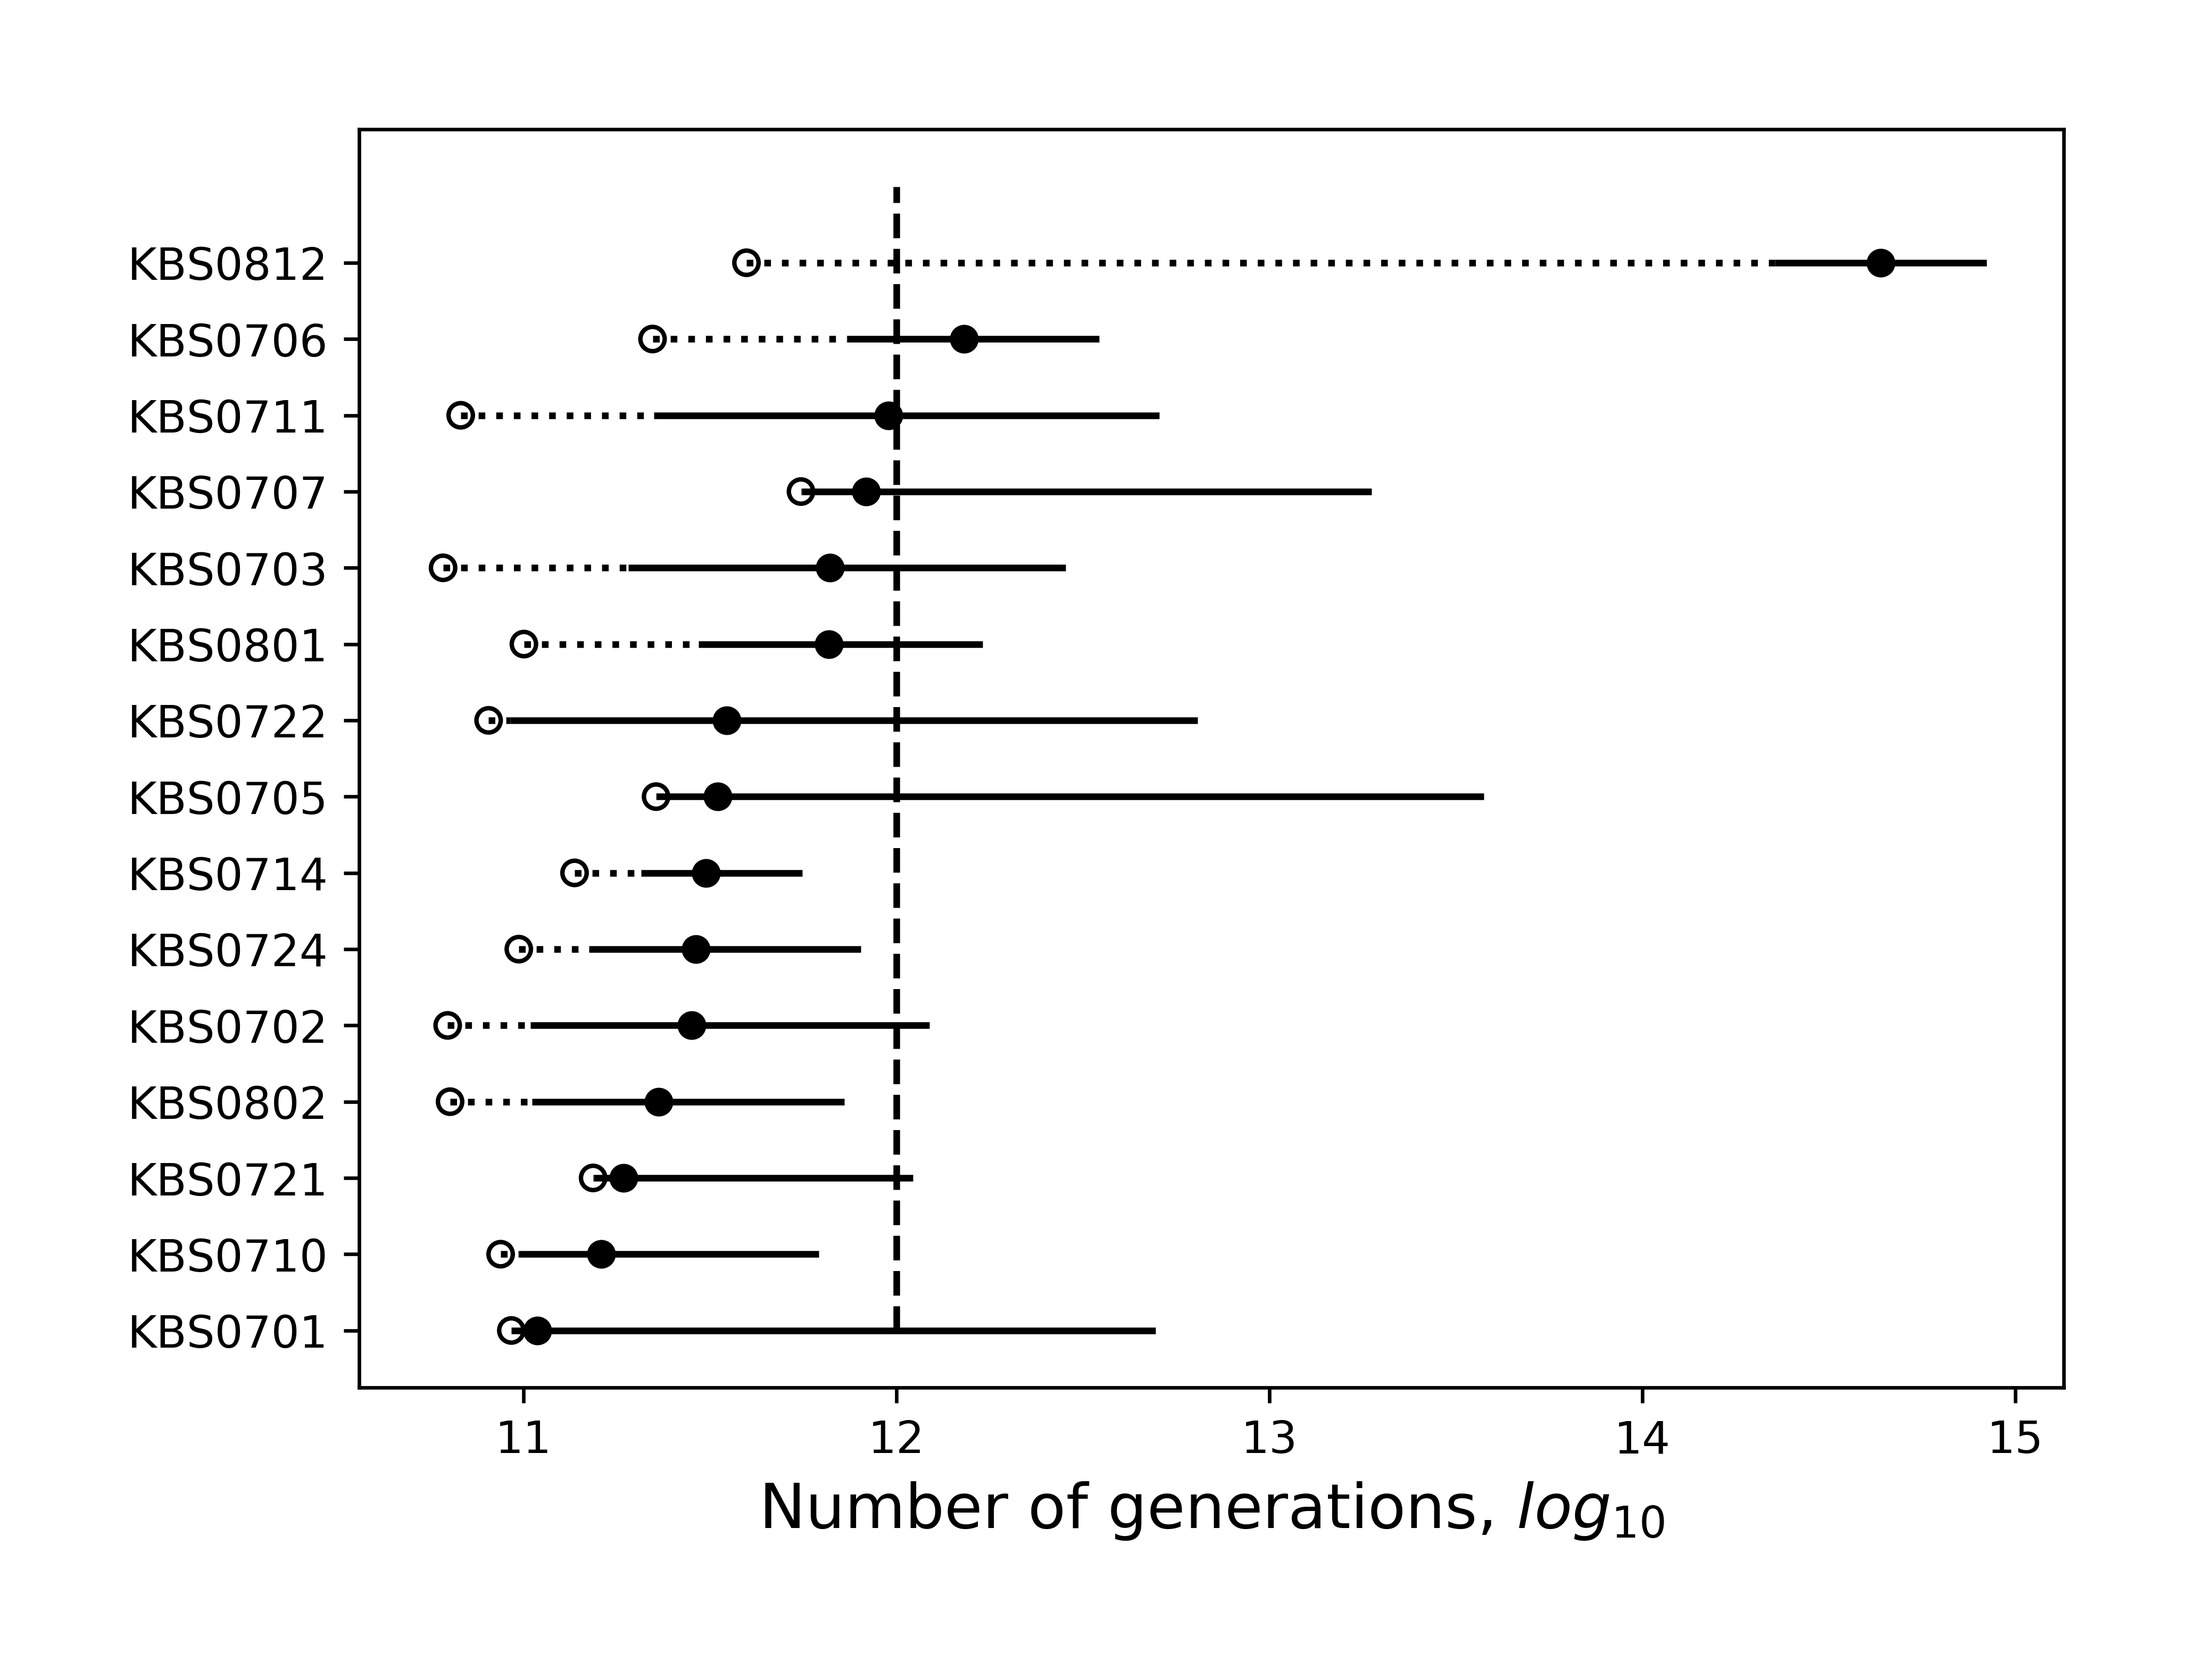
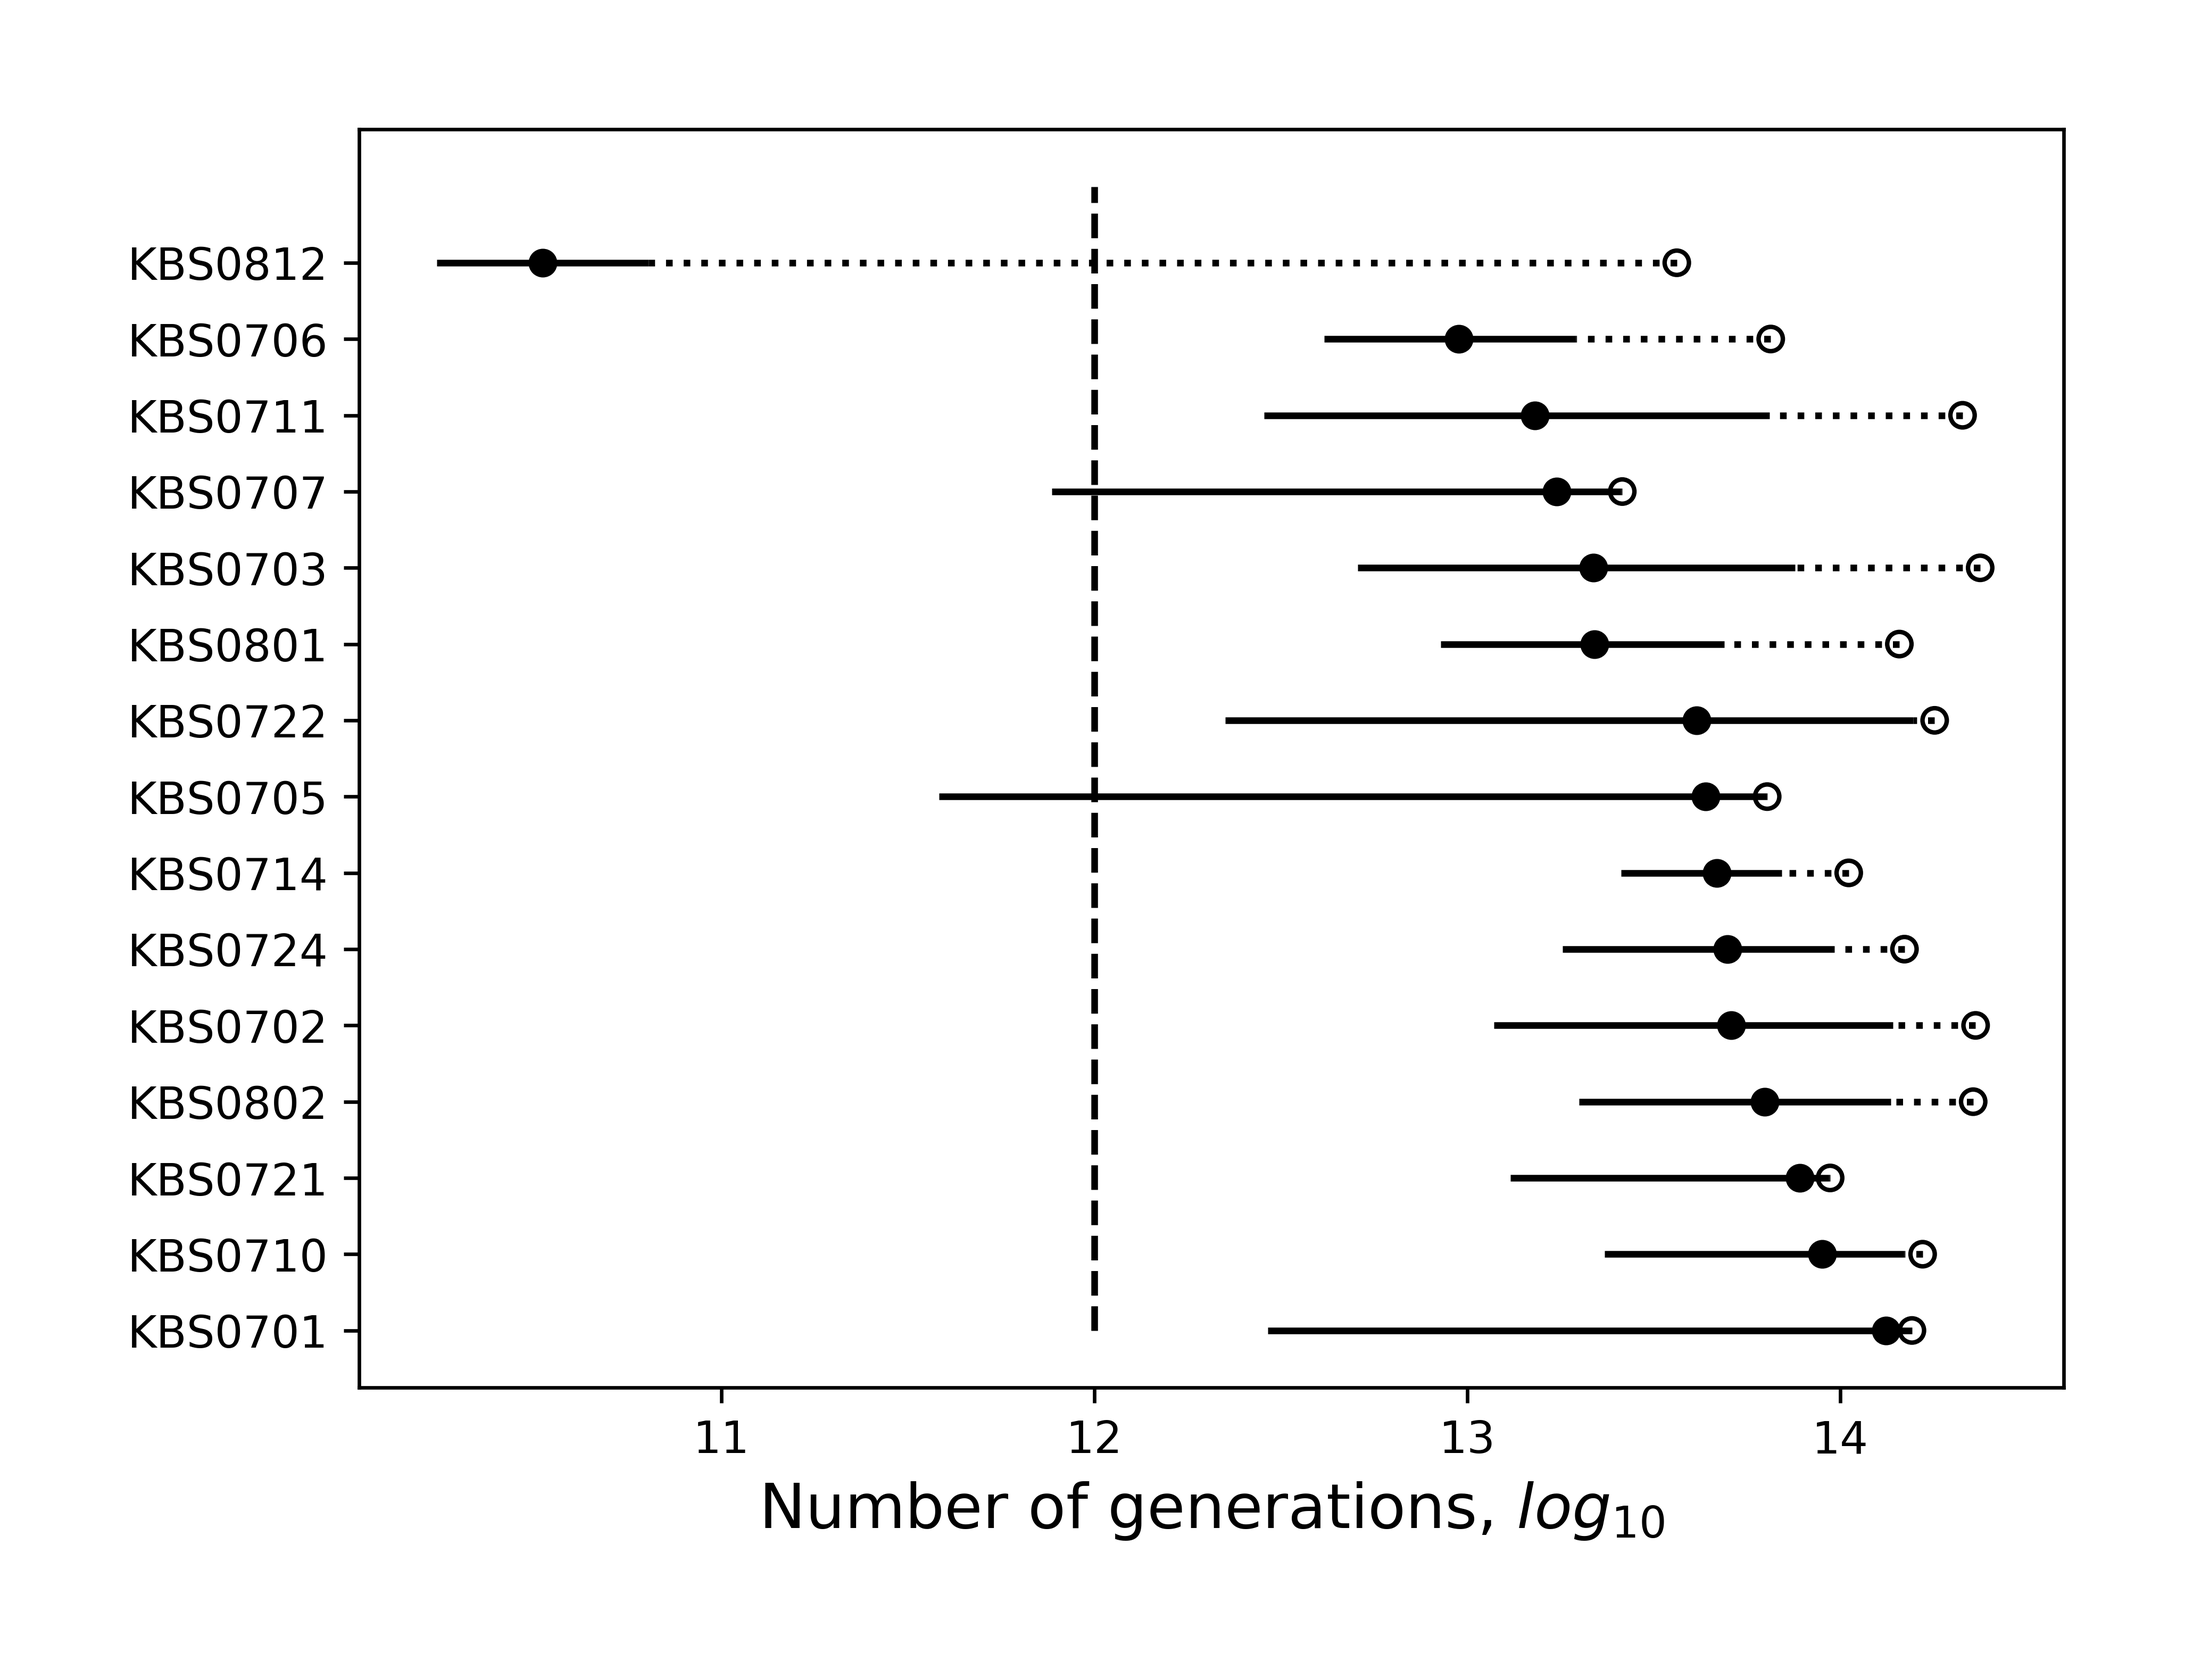
fig1

diff --git a/Python/make_figs.py b/Python/make_figs.py
@@ -1,0 +1,101 @@
+from __future__ import division
+import os, math
+import pandas as pd
+import numpy as np
+import  matplotlib.pyplot as plt
+from matplotlib import rc
+
+import ltde_tools as lt
+from sklearn.model_selection import GridSearchCV
+from sklearn.neighbors import KernelDensity
+from operator import itemgetter
+
+
+def fig1():
+    df = lt.get_mean_time_death()
+    df = lt.clean_demography_df(df)
+    fig = plt.figure()
+    # alpha kde
+    alpha = df.alpha.values
+    grid_alpha = GridSearchCV(KernelDensity(),
+                    {'bandwidth': np.linspace(0.1, 10, 50)},
+                    cv=20) # 20-fold cross-validation
+    grid_alpha.fit(alpha[:, None])
+    x_grid_alpha = np.linspace(0, 2.5, 1000)
+    kde_alpha = grid_alpha.best_estimator_
+    pdf_alpha = np.exp(kde_alpha.score_samples(x_grid_alpha[:, None]))
+    ax1 = plt.subplot2grid((2, 2), (0, 0), colspan=1)
+    pdf_alpha = [x / sum(pdf_alpha) for x in pdf_alpha]
+    ax1.plot(x_grid_alpha, pdf_alpha, alpha=0.8, lw = 2, color = '#1f77b4') #, marker='o')
+    #ax1.fill_between(x_grid_alpha, 0, pdf_alpha)
+    #ax1.hist(alpha, 35, fc='gray', histtype='stepfilled', alpha=0.3, normed=True)
+    ax1.axvline(x=1, color='darkgrey', linestyle='--', lw = 2.5)
+    ax1.axvline(x=np.mean(alpha), color='#1f77b4', linestyle='--', lw = 2.5)
+    ax1.set_xlim([-0.1,2.6])
+    ax1.set_xlabel("Scale parameter, " +r'$\alpha$', fontsize = 14)
+    ax1.set_ylabel("Probability density", fontsize = 14)
+
+    # half life kde
+    half_life = np.log10(df.half_life.values)
+    grid_half_life = GridSearchCV(KernelDensity(),
+                    {'bandwidth': np.linspace(0.1, 10, 50)},
+                    cv=20) # 20-fold cross-validation
+    grid_half_life.fit(half_life[:, None])
+    x_grid_half_life = np.linspace(-10, 15, 1000)
+    kde_half_life = grid_half_life.best_estimator_
+    pdf_half_life = np.exp(kde_half_life.score_samples(x_grid_half_life[:, None]))
+    pdf_half_life = [x / sum(pdf_half_life) for x in pdf_half_life]
+    ax2 = plt.subplot2grid((2, 2), (1, 0), colspan=1)
+    ax2.plot( x_grid_half_life, pdf_half_life , color="orange", alpha=0.8)
+    ax2.axvline(x=np.mean(half_life), color='orange', linestyle='--', lw = 2.5)
+    ax2.set_xlim([-11,11])
+    ax2.set_xlabel("Half-life " + r'$\mathrm{(d^{-1}), \, log_{10}} $', fontsize = 14)
+    ax2.set_ylabel("Probability density", fontsize = 14)
+
+    ax3 = plt.subplot2grid((2, 2), (0, 1), rowspan=2)
+    strains = list(set(df.strain.values))
+    half_lives = [np.log10(df.loc[df['strain'] == strain].half_life.values) for strain in strains]
+    mean_half_life = [np.median(np.log10(df.loc[df['strain'] == strain].half_life.values)) for strain in strains]
+
+    zipped_half_lives = list(zip(strains, half_lives, mean_half_life))
+    zipped_half_lives.sort(key=lambda x: int(x[2])) # reverse= True)
+    zipped_half_lives_sorted = sorted(zipped_half_lives, key=lambda x: x[2])
+    strains = [x[0] for x in zipped_half_lives_sorted]
+    half_lives = [x[1] for x in zipped_half_lives_sorted]
+    mean_half_life = [x[2] for x in zipped_half_lives_sorted]
+
+    strain_dict = lt.get_strain_genus_dict()
+    genera_labels = list(reversed([strain_dict[x] for x in strains]))
+    strain_labels = list(reversed([' sp. ' + x for x in strains]))
+    #print(strain_labels)
+
+    #genera
+    ax3.boxplot(half_lives, vert = False)
+    ax3.yaxis.set_major_formatter(plt.NullFormatter())
+    ax3.set_xlim([-6,11])
+    #ax3.yaxis.set_ticks_position('none')
+    #ax3.gca().xaxis.set_major_locator(plt.NullLocator())
+    #ax3.axis('off')
+    ax3.set_xlabel("Half-life " + r'$\mathrm{(d^{-1}), \, log_{10}} $', fontsize = 14)
+    for i in range(len(genera_labels)):
+        genera_label = genera_labels[i]
+        strain_label = strain_labels[i]
+        y = len(genera_labels) - i - 0.1
+        if i == 0:
+            ax3.text(-5, y, r"${" + genera_label + "} \, \mathrm{" + strain_label + "}$", fontsize = 5.5)
+        else:
+            if genera_label == 'Janthinobacterium':
+                fontsize = 5.2
+            else:
+                fontsize = 5.5
+            ax3.text(3.2,  y, r"${" + genera_label + "} \, \mathrm{" + strain_label + "}$", fontsize = fontsize)
+
+    plt.tight_layout()
+    fig_name = lt.get_path() + '/figs/fig1.png'
+    fig.savefig(fig_name, bbox_inches = "tight", pad_inches = 0.4, dpi = 600)
+    plt.close()
+
+
+
+
+fig1()

diff --git a/Python/make_gen_time_fig.py b/Python/make_gen_time_fig.py
@@ -6,14 +6,7 @@ import  matplotlib.pyplot as plt
 import ltde_tools as lt
 
 
-def get_mean_time_death():
-    df_path = lt.get_path() + '/data/demography/weibull_results.csv'
-    df = pd.read_csv(df_path, sep = ',', index_col = 0)
-    df['mean_days_death'] = df.apply(lambda row: lt.weibull_mean(alpha = row['alpha'], beta = row['beta']), axis=1)
-    df['sd_days_death'] = df.apply(lambda row: math.sqrt(lt.weibull_variance(alpha = row['alpha'], beta = row['beta'])), axis=1)
-    df['CI025_mean_days_death'] = df.apply(lambda row: lt.weibull_CIs(mean = row['mean_days_death'], sd = row['sd_days_death'], n= row['N.obs'], lower = True ) , axis=1)
-    df['CI975_mean_days_death'] = df.apply(lambda row: lt.weibull_CIs(mean = row['mean_days_death'], sd = row['sd_days_death'], n= row['N.obs'], lower = False ) , axis=1)
-    return(df)
+
 
 
 def get_weighted_mean_time_death():
@@ -29,11 +22,14 @@ def get_weighted_mean_time_death():
         n = group['N.obs'].values
         weighted_mean = sum(group['N.obs'].values * group.mean_days_death.values) /  sum(group['N.obs'].values)
         pooled_sd =  math.sqrt(sum((group['N.obs'].values -1) * (group.sd_days_death.values ** 2)) / sum(group['N.obs'].values -1))
+        print(name, weighted_mean, pooled_sd)
         CI025_weighted_mean_days_death = lt.weibull_CIs(mean = weighted_mean, sd = pooled_sd, n =n, lower = True, pooled = True)
         CI975_weighted_mean_days_death = lt.weibull_CIs(mean = weighted_mean, sd = pooled_sd, n =n, lower = False, pooled = True)
         line = [name, str(group.shape[0]), str(weighted_mean), str(CI025_weighted_mean_days_death), str(CI975_weighted_mean_days_death)]
         df_out.write('\t'.join(line) + '\n')
+
     df_out.close()
+
 
 def plot_weighted_mean():
     # merge trait dataset with mean death time
@@ -61,10 +57,10 @@ def plot_weighted_mean():
         #div_time_starv_CI975 = np.log10(row['division_time_starv_CI975']* 365 * (3.8 * (10**12) ))
         #div_time_starv_mean = np.log10(row['division_time_starv_mean']* 365 * (3.8 * (10**12) ))
 
-        div_time = np.log10((row['division_time_days'] / 365) * (3.8 * (10**12) ))
-        div_time_starv_CI025 = np.log10( (row['division_time_starv_CI025']/ 365) * (3.8 * (10**12) ))
-        div_time_starv_CI975 = np.log10( (row['division_time_starv_CI975']/ 365) * (3.8 * (10**12) ))
-        div_time_starv_mean = np.log10(  (row['division_time_starv_mean'] / 365) * (3.8 * (10**12) ))
+        div_time = np.log10(   ( 1 / (row['division_time_days'] / 365)) * (3.8 * (10**12) ))
+        div_time_starv_CI025 = np.log10( (1 / (row['division_time_starv_CI025']/ 365)) * (3.8 * (10**12) ))
+        div_time_starv_CI975 = np.log10( (1 / (row['division_time_starv_CI975']/ 365)) * (3.8 * (10**12) ))
+        div_time_starv_mean = np.log10(  (1 / (row['division_time_starv_mean'] / 365)) * (3.8 * (10**12) ))
 
         plt.hlines(count, div_time, div_time_starv_CI025, linestyles = ':')
         plt.hlines(count, div_time_starv_CI025, div_time_starv_CI975, linestyles = '-')
@@ -81,9 +77,11 @@ def plot_weighted_mean():
     fig.savefig(fig_name, bbox_inches = "tight", pad_inches = 0.4, dpi = 600)
     plt.close()
 
-    df_emp_path = lt.get_path() + '/data/EMP/EMP-clean/estimated_cell_counts.txt'
-    df_emp = pd.read_csv(df_emp_path, sep = '\t', index_col = 0)
-    print(df_emp)
+    #df_emp_path = lt.get_path() + '/data/EMP/EMP-clean/estimated_cell_counts.txt'
+    #df_emp = pd.read_csv(df_emp_path, sep = '\t', index_col = 0)
+    #print(df_emp)
+
+    # figure out how to calculate confidence intervals
 
 
 

diff --git a/Python/ltde_tools.py b/Python/ltde_tools.py
@@ -1,10 +1,31 @@
 import os, math
+import pandas as pd
 
 def get_path():
     return os.path.expanduser("~/GitHub/LTDE")
 
+def clean_demography_df(df):
+    df.loc[((df["strain"] == 'KBS0711W') & (df["rep"] == 1)), 'rep'] = 5
+    df.loc[((df["strain"] == 'KBS0711W') & (df["rep"] == 2)), 'rep'] = 6
+    df.loc[((df["strain"] == 'KBS0711W') & (df["rep"] == 3)), 'rep'] = 7
+    df.loc[((df["strain"] == 'KBS0711W') & (df["rep"] == 4)), 'rep'] = 8
+    df.loc[(df["strain"] == 'KBS0711W'), 'strain'] = 'KBS0711'
+    return df
+
+
+def get_strain_genus_dict():
+    df_path = get_path() + '/data/traits/traits.txt'
+    df = pd.read_csv(df_path, sep = '\t')
+    genus_dict = pd.Series(df.Genus.values,index=df.Code).to_dict()
+    genus_dict['KBS0727'] = 'Bradyrhizobium'
+    return genus_dict
+
 def weibull_mean(alpha, beta):
     return beta * math.gamma(1 + (1/alpha))
+
+def weibull_half_life(alpha, beta):
+    #return beta * math.gamma(1 + (1/alpha))
+    return beta *  ((-math.log(0.5)) ** (1/alpha))
 
 def weibull_variance(alpha, beta):
     return (beta ** 2) * (math.gamma(1 + (2/alpha)) -  (math.gamma(1 + (1/alpha)) ** 2))
@@ -22,6 +43,18 @@ def weibull_CIs(mean, sd, n, lower = True, pooled = False):
     else:
         CI = math.exp( math.log(mean) + (1.96 * se_g1))
     return CI
+
+
+def get_mean_time_death():
+    df_path = get_path() + '/data/demography/weibull_results.csv'
+    df = pd.read_csv(df_path, sep = ',', index_col = 0)
+    df['mean_days_death'] = df.apply(lambda row: weibull_mean(alpha = row['alpha'], beta = row['beta']), axis=1)
+    df['sd_days_death'] = df.apply(lambda row: math.sqrt(weibull_variance(alpha = row['alpha'], beta = row['beta'])), axis=1)
+    df['CI025_mean_days_death'] = df.apply(lambda row: weibull_CIs(mean = row['mean_days_death'], sd = row['sd_days_death'], n= row['N.obs'], lower = True ) , axis=1)
+    df['CI975_mean_days_death'] = df.apply(lambda row: weibull_CIs(mean = row['mean_days_death'], sd = row['sd_days_death'], n= row['N.obs'], lower = False ) , axis=1)
+    df['half_life'] = df.apply(lambda row: weibull_half_life(alpha = row['alpha'], beta = row['beta']), axis=1)
+    return df
+
 
 
 class classFASTA:
